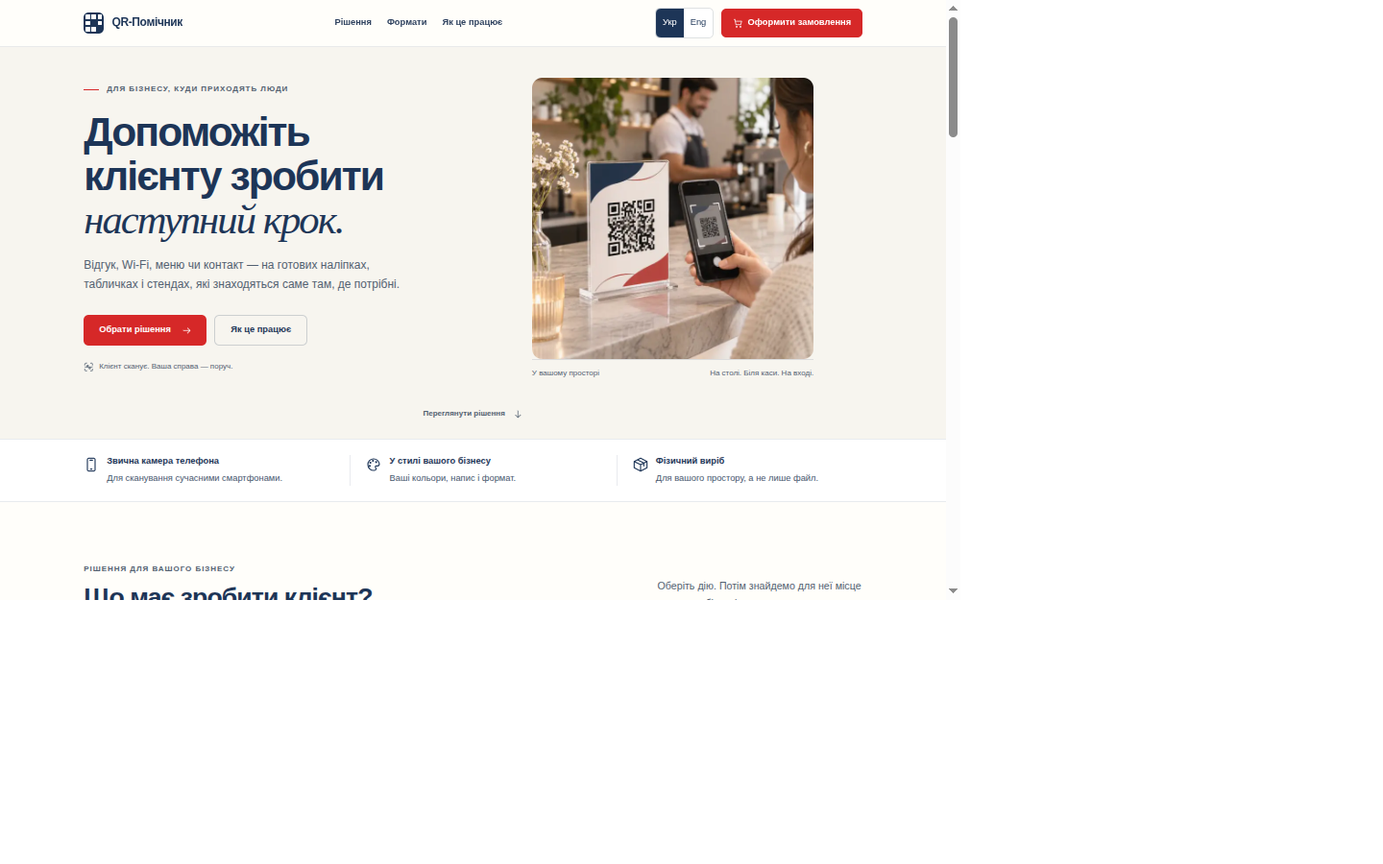
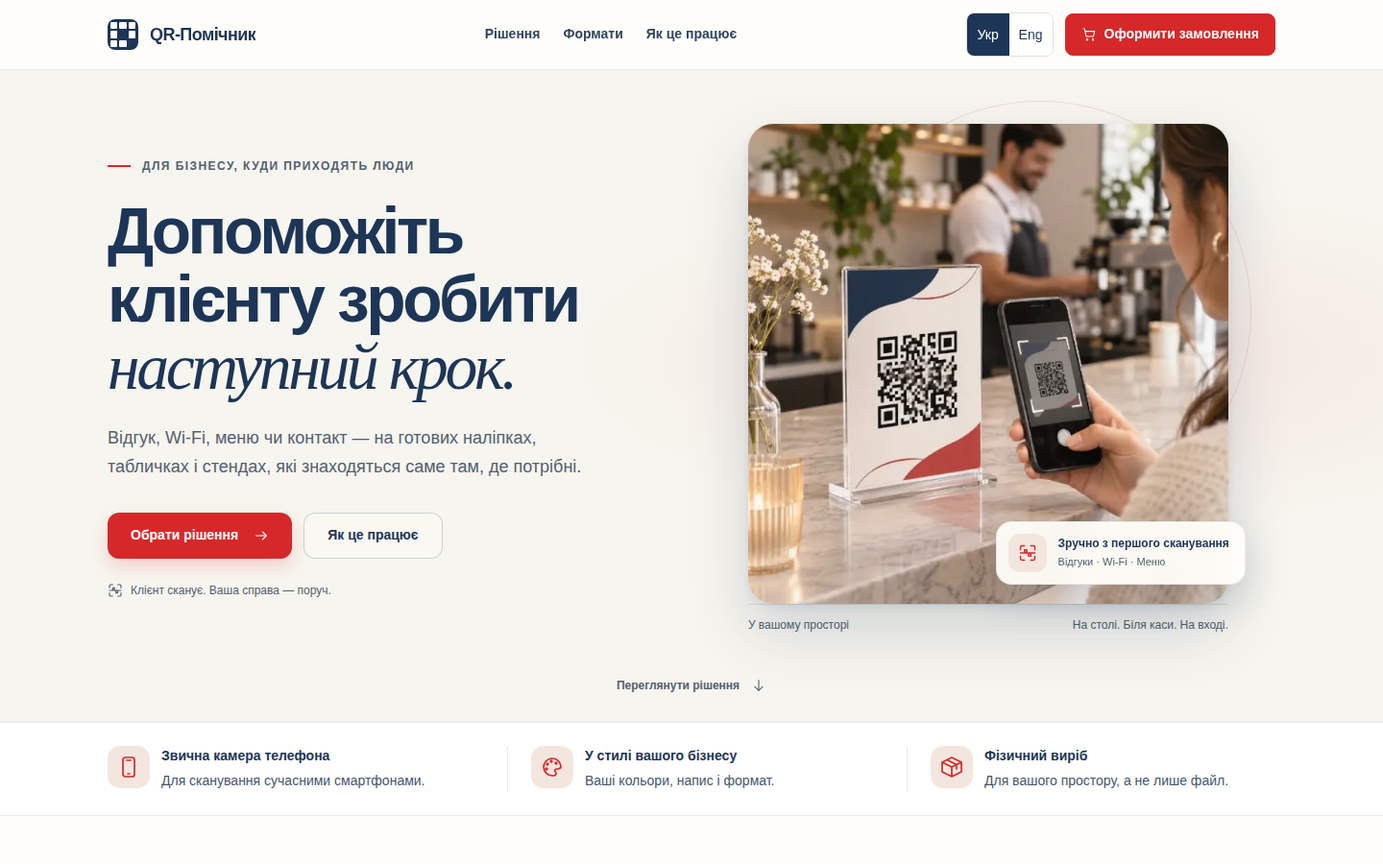
feat: update product visuals and interactions
- Enhanced the product hero section with a new radial gradient background and adjusted layout for better responsiveness.
- Updated button styles for improved hover effects and added box shadows for depth.
- Modified the OrderCart component to reflect a change in terminology from "Customer action" to "Business solution".
- Adjusted the StickerEditor component to align with the new business-focused language.
- Increased the border-radius and added box shadows to images in the HeroEnvironment for a more modern look.
- Updated the SolutionBuilder component to use a new pricing note and adjusted the displayed text for clarity.
- Revised documentation to reflect changes in product descriptions and pricing structure.
- Updated localization files for English and Ukrainian to align with new messaging.
- Added new images for hero integration and updated existing ones for consistency.
- Ensured all changes respect reduced motion preferences for accessibility.

diff --git a/app/globals.css b/app/globals.css
@@ -65,12 +65,12 @@ button {
 .product-storefront { background: #fffefa; }
 .product-container { width: 100%; max-width: 1280px; margin-inline: auto; padding-inline: 32px; }
 .product-section { padding-block: 96px; }
-.product-hero { background: #f7f5ef; overflow: clip; }
-.product-hero-layout { display: grid; align-items: center; grid-template-columns: 1fr 1fr; gap: 32px; padding-block: 48px 32px; }
+.product-hero { position: relative; overflow: clip; background: radial-gradient(ellipse at 78% 44%, rgb(214 40 40 / 8%), transparent 34%), #f7f5ef; }
+.product-hero-layout { display: grid; align-items: center; grid-template-columns: 1fr 1.05fr; gap: 48px; padding-block: 56px 32px; }
 .product-eyebrow, .product-kicker { color: #526070; font-size: 12px; line-height: 1.5; font-weight: 700; letter-spacing: .12em; text-transform: uppercase; }
 .product-eyebrow { display: flex; align-items: center; gap: 12px; }
 .product-eyebrow > span { width: 24px; height: 2px; background: #d62828; flex-shrink: 0; }
-.product-headline { max-width: 610px; margin-top: 24px; color: #1d3557; font-size: 64px; line-height: 1.06; font-weight: 750; letter-spacing: -.045em; text-wrap: balance; }
+.product-headline { max-width: 640px; margin-top: 24px; color: #1d3557; font-size: clamp(56px, 4.7vw, 68px); line-height: 1.04; font-weight: 750; letter-spacing: -.05em; text-wrap: balance; }
 .product-headline em { font-family: Georgia, 'Times New Roman', serif; font-weight: 400; }
 .product-hero-description { max-width: 500px; margin-top: 24px; font-size: 18px; line-height: 1.65; color: #526070; }
 .product-hero-actions { display: flex; flex-wrap: wrap; gap: 12px; margin-top: 32px; }
@@ -78,23 +78,30 @@ button {
 .product-section-heading { margin-top: 12px; color: #1d3557; font-size: 40px; font-weight: 650; line-height: 1.15; letter-spacing: -.035em; text-wrap: balance; }
 .product-section-intro { display: flex; align-items: flex-end; justify-content: space-between; gap: 32px; }
 .product-section-description { max-width: 320px; color: #526070; font-size: 16px; line-height: 1.65; }
-.product-button, .product-button-secondary { display: inline-flex; min-height: 48px; align-items: center; justify-content: center; gap: 16px; padding: 12px 24px; font-size: 14px; line-height: 1.5; font-weight: 650; border-radius: 8px; transition: background-color .2s; }
-.product-button { background: #d62828; color: #fff; }
-.product-button:hover { background: #b91f1f; }
-.product-button-secondary { color: #1d3557; border: 1px solid #1d355733; background: transparent; }
+.product-button, .product-button-secondary { display: inline-flex; min-height: 48px; align-items: center; justify-content: center; gap: 16px; padding: 12px 24px; font-size: 14px; line-height: 1.5; font-weight: 650; border-radius: 12px; transition: background-color .2s, box-shadow .2s, transform .2s; }
+.product-button { background: #d62828; color: #fff; box-shadow: 0 8px 18px rgb(214 40 40 / 18%); }
+.product-button:hover { transform: translateY(-1px); background: #b91f1f; box-shadow: 0 10px 22px rgb(214 40 40 / 22%); }
+.product-button-secondary { color: #1d3557; border: 1px solid #1d355733; background: rgb(255 255 255 / 28%); }
 .product-button-secondary:hover { background: #fffefa; }
 .hero-products-art { display: block; width: 100%; height: auto; }
-.product-hero-scene { position: relative; max-width: 440px; width: 100%; margin-inline: auto; }
+.product-hero-scene { position: relative; z-index: 0; max-width: 500px; width: 100%; margin-inline: auto; }
+.product-hero-scene::before { position: absolute; z-index: -1; top: -24px; right: -24px; width: 88%; aspect-ratio: 1; border: 1px solid rgb(214 40 40 / 13%); border-radius: 50%; background: radial-gradient(circle, rgb(214 40 40 / 9%), rgb(214 40 40 / 0%) 68%); content: ""; }
+.product-hero-photo-badge { position: absolute; right: -18px; bottom: 20px; display: flex; max-width: calc(100% - 24px); align-items: center; gap: 12px; padding: 12px 16px 12px 12px; border: 1px solid rgb(29 53 87 / 8%); border-radius: 16px; background: rgb(255 254 250 / 94%); box-shadow: 0 16px 38px rgb(29 53 87 / 16%); color: #1d3557; backdrop-filter: blur(12px); }
+.product-hero-photo-icon { display: grid; width: 40px; height: 40px; flex: 0 0 40px; place-items: center; border-radius: 12px; background: #f3e6df; color: #d62828; }
+.product-hero-photo-copy { display: grid; gap: 3px; min-width: 0; }
+.product-hero-photo-copy strong { font-size: 12px; line-height: 1.3; font-weight: 750; }
+.product-hero-photo-copy > span { color: #526070; font-size: 11px; line-height: 1.35; }
 .product-scene-caption { display: flex; flex-wrap: wrap; justify-content: space-between; gap: 8px; border-top: 1px solid #1d35571f; padding-top: 12px; font-size: 12px; line-height: 1.5; color: #526070; }
 .product-hero-scroll { display: flex; justify-content: center; padding-bottom: 16px; }
 .product-scroll-cue { display: inline-flex; min-height: 44px; align-items: center; gap: 12px; padding-inline: 12px; color: #526070; font-size: 12px; line-height: 1.5; font-weight: 600; }
 .product-scroll-cue:hover { color: #1d3557; }
 .product-trust-strip { display: grid; grid-template-columns: repeat(3,minmax(0,1fr)); gap: 32px; padding-block: 24px; }
 .product-trust-item { display: flex; align-items: flex-start; gap: 12px; }
-.product-trust-item > svg { margin-top: 4px; }
+.product-trust-item > svg { box-sizing: content-box; margin-top: 0; padding: 10px; border-radius: 13px; background: #f3e6df; color: #d62828; }
 .product-trust-item + .product-trust-item { border-left: 1px solid #1d35571a; padding-left: 24px; }
 .product-flagship-grid { display: grid; grid-template-columns: repeat(3,minmax(0,1fr)); gap: 16px; margin-top: 32px; }
-.product-flagship { display: flex; min-width: 0; flex-direction: column; padding: 32px; border-radius: 12px; transition: background-color .2s; }
+.product-flagship { display: flex; min-width: 0; flex-direction: column; padding: 32px; border: 1px solid rgb(29 53 87 / 4%); border-radius: 22px; box-shadow: 0 8px 24px rgb(29 53 87 / 5%); transition: transform .2s, box-shadow .2s; }
+.product-flagship:hover { transform: translateY(-4px); box-shadow: 0 18px 36px rgb(29 53 87 / 12%); }
 .product-flagship-dark { background: #1d3557; color: #fffdf7; }
 .product-flagship-cream { background: #eee8da; color: #1d3557; }
 .product-flagship-red { background: #f3e6df; color: #1d3557; }
@@ -110,23 +117,24 @@ button {
 .product-format-section { background: #f0eee7; }
 .product-format-description { max-width: 576px; margin-top: 16px; color: #526070; font-size: 16px; line-height: 1.65; }
 .product-format-grid { display: grid; grid-template-columns: repeat(4,minmax(0,1fr)); gap: 32px 24px; margin-top: 32px; }
-.product-material-study { display: flex; align-items: center; justify-content: center; min-width: 0; background: #e7e2d7; aspect-ratio: 1.2; border-radius: 12px; }
+.product-material-study { display: flex; align-items: center; justify-content: center; min-width: 0; overflow: hidden; background: radial-gradient(ellipse at 50% 46%, #f6f2e9, #e7e2d7 72%); aspect-ratio: 1.2; border: 1px solid rgb(29 53 87 / 5%); border-radius: 18px; }
 .product-format-title { display: flex; flex-wrap: wrap; align-items: center; gap: 8px; margin-top: 16px; }
 .product-format-heading { color: #1d3557; font-size: 18px; line-height: 1.35; font-weight: 650; overflow-wrap: anywhere; }
 .product-format-invitation { display: flex; min-width: 0; flex-direction: column; justify-content: center; border-top: 1px solid #1d355726; padding-block: 24px; }
 .product-process-grid { display: grid; grid-template-columns: .8fr 1.2fr; gap: 64px; }
-.product-step-number { display: inline-flex; width: 28px; height: 28px; flex: 0 0 28px; align-items: center; justify-content: center; border: 1px solid #1d355726; border-radius: 50%; color: #1d3557; font-size: 12px; font-weight: 600; line-height: 1; }
+.product-step-number { display: inline-flex; width: 36px; height: 36px; flex: 0 0 36px; align-items: center; justify-content: center; border: 1px solid rgb(214 40 40 / 12%); border-radius: 50%; background: #f3e6df; color: #d62828; font-size: 13px; font-weight: 700; line-height: 1; }
 .product-industries { border-block: 1px solid #1d35571a; padding-block: 64px; background: #f7f5ef; }
 .product-industry-intro { max-width: 640px; margin-inline: auto; text-align: center; }
 .product-industry-intro .product-section-heading { margin-top: 0; }
 .product-industry-intro > p { margin-top: 16px; color: #526070; font-size: 16px; line-height: 1.65; }
-.product-industry-grid { display: grid; grid-template-columns: repeat(3,minmax(0,1fr)); gap: 32px 48px; max-width: 1056px; margin: 48px auto 0; }
-.product-industry { display: grid; grid-template-columns: 24px minmax(0,1fr); align-content: start; align-items: start; gap: 8px 16px; min-width: 0; color: #1d3557; }
-.product-industry > svg { margin-top: 2px; }
+.product-industry-grid { display: grid; grid-template-columns: repeat(3,minmax(0,1fr)); gap: 16px; max-width: 1056px; margin: 40px auto 0; }
+.product-industry { display: grid; grid-template-columns: 44px minmax(0,1fr); align-content: start; align-items: start; gap: 8px 14px; min-width: 0; padding: 20px; border: 1px solid rgb(29 53 87 / 6%); border-radius: 16px; background: rgb(255 255 255 / 78%); color: #1d3557; }
+.product-industry > svg { box-sizing: content-box; padding: 10px; border-radius: 12px; background: #fff; color: #d62828; }
 .product-industry h3 { font-size: 18px; line-height: 1.4; font-weight: 650; }
 .product-industry p { grid-column: 2; font-size: 14px; line-height: 1.6; color: #526070; }
 .product-closing-section { padding-block: 48px 64px; }
-.product-final-cta { display: flex; align-items: center; justify-content: space-between; gap: 32px; padding: 48px; border-radius: 16px; background: #1d3557; color: #fffdf7; }
+.product-final-cta { position: relative; display: flex; align-items: center; justify-content: space-between; gap: 32px; overflow: hidden; padding: 48px; border: 1px solid rgb(255 255 255 / 8%); border-radius: 24px; background: radial-gradient(ellipse at 92% 10%, rgb(214 40 40 / 36%), transparent 32%), linear-gradient(115deg, #1d3557, #284b70); color: #fffdf7; box-shadow: 0 20px 48px rgb(29 53 87 / 14%); }
+.product-final-cta > * { position: relative; z-index: 1; }
 .product-cta-kicker { font-size: 12px; line-height: 1.5; font-weight: 600; letter-spacing: .1em; text-transform: uppercase; color: #d7dce3; }
 .product-final-cta h2 { max-width: 640px; margin-top: 16px; font-family: Georgia, 'Times New Roman', serif; font-size: 36px; line-height: 1.2; text-wrap: balance; }
 .product-choice { display: flex; min-width: 0; width: 100%; flex-direction: column; border: 1px solid #1d355724; border-radius: 12px; padding: 24px; text-align: left; color: #1d3557; background: #fff; transition: border-color .2s, background .2s; }
@@ -177,6 +185,7 @@ button {
   .product-hero-actions { flex-direction: column; margin-top: 24px; }
   .product-hero-support { margin-top: 16px; }
   .product-hero-scene { max-width: 440px; }
+  .product-hero-photo-badge { right: 8px; bottom: 12px; }
   .product-section-heading { font-size: 30px; }
   .product-trust-strip { grid-template-columns: 1fr; gap: 16px; }
   .product-trust-item { flex-direction: row; gap: 12px; }
@@ -198,7 +207,11 @@ button {
   .product-hero-support { margin-top: 16px; }
   .product-scene-caption { font-size: 12px; }
 }
-@media (prefers-reduced-motion: reduce) { html { scroll-behavior: auto; } }
+@media (prefers-reduced-motion: reduce) {
+  html { scroll-behavior: auto; }
+  .product-button, .product-button-secondary, .product-flagship { transition: none; }
+  .product-flagship:hover { transform: none; }
+}
 .product-storefront :is(a, button, input, select, textarea):focus-visible,
 .product-editor :is(a, button, input, select, textarea):focus-visible,
 .product-checkout :is(a, button, input, select, textarea):focus-visible,

diff --git a/app/[locale]/page.tsx b/app/[locale]/page.tsx
@@ -26,13 +26,13 @@ export default async function HomePage({ params }: { params: Promise<{ locale: s
         <div className="product-container product-hero-layout">
           <div className="relative z-10 min-w-0">
             <p className="product-eyebrow"><span />{ua ? 'Для бізнесу, куди приходять люди' : 'For businesses people walk into'}</p>
-            <h1 className="product-headline">{ua ? <>Допоможіть клієнту зробити <em>наступний крок.</em></> : <>Make the next step <em>easy for your customers.</em></>}</h1>
-            <p className="product-hero-description">{ua ? 'Відгук, Wi-Fi, меню чи контакт — на готових наліпках, табличках і стендах, які знаходяться саме там, де потрібні.' : 'Reviews, Wi-Fi, menus and contacts. Thoughtful stickers, signs and table stands that put the right action in the right place.'}</p>
+            <h1 className="product-headline">{ua ? <>QR-рішення, що спрощують <em>роботу бізнесу.</em></> : <>QR solutions that make <em>everyday business easier.</em></>}</h1>
+            <p className="product-hero-description">{ua ? 'Wi-Fi, меню, відгуки чи контакти — готові QR-вироби для щоденних потреб вашого бізнесу.' : 'Wi-Fi, menus, reviews and contacts — ready-to-use QR products for everyday business needs.'}</p>
             <div className="product-hero-actions">
-              <a href="#solutions" className="product-button">{ua ? 'Обрати рішення' : 'Find your solution'}<Icon name="arrow" className="h-4 w-4" /></a>
+              <a href="#solutions" className="product-button">{ua ? 'Обрати рішення' : 'Choose a solution'}<Icon name="arrow" className="h-4 w-4" /></a>
               <a href="#how-it-works" className="product-button-secondary">{ua ? 'Як це працює' : 'How it works'}</a>
             </div>
-            <p className="product-hero-support"><Icon name="scan" className="h-4 w-4" />{ua ? 'Клієнт сканує. Ваша справа — поруч.' : 'A quick scan. A useful connection.'}</p>
+            <p className="product-hero-support"><Icon name="scan" className="h-4 w-4" />{ua ? 'Оберіть рішення, додайте свої дані — готовий QR на виробі.' : 'Choose a solution, add your details — your QR, ready on a product.'}</p>
           </div>
           <div className="product-hero-scene min-w-0">
             <HeroEnvironment
@@ -40,12 +40,21 @@ export default async function HomePage({ params }: { params: Promise<{ locale: s
               image={{
                 src: '/images/hero/cafe-review-stand.webp',
                 alt: ua
-                  ? 'Клієнт сканує QR-стенд для відгуків у кав’ярні'
-                  : 'A customer scans a café review QR stand',
+                  ? 'Згенерована візуалізація QR-стенду для відгуків у кав’ярні'
+                  : 'AI-generated visualization of a café review QR stand',
                 objectPosition: { desktop: '50% 50%', mobile: '46% 51%' },
               }}
+              overlay={
+                <div className="product-hero-photo-badge" aria-hidden="true">
+                  <span className="product-hero-photo-icon"><Icon name="scan" className="h-5 w-5" /></span>
+                  <span className="product-hero-photo-copy">
+                    <strong>{ua ? 'Зручно з першого сканування' : 'Easy from the first scan'}</strong>
+                    <span>{ua ? 'Відгуки · Wi-Fi · Меню' : 'Reviews · Wi-Fi · Menus'}</span>
+                  </span>
+                </div>
+              }
             />
-            <div className="product-scene-caption"><span>{ua ? 'У вашому просторі' : 'In your space'}</span><span>{ua ? 'На столі. Біля каси. На вході.' : 'Tables. Counters. Doorways.'}</span></div>
+            <div className="product-scene-caption"><span>{ua ? 'Згенерована візуалізація' : 'AI-generated visual'}</span><span>{ua ? 'Приклад QR-виробу в інтер’єрі' : 'Example QR product in a café'}</span></div>
           </div>
         </div>
         <div className="product-container product-hero-scroll">
@@ -66,8 +75,8 @@ export default async function HomePage({ params }: { params: Promise<{ locale: s
 
       <section id="solutions" className="product-container product-section">
         <div className="product-section-intro">
-          <div className="max-w-xl"><p className="product-kicker">{ua ? 'Рішення для вашого бізнесу' : 'Solutions for your business'}</p><h2 className="product-section-heading">{ua ? 'Що має зробити клієнт?' : 'What should your customer do?'}</h2></div>
-          <p className="product-section-description">{ua ? 'Оберіть дію. Потім знайдемо для неї місце у вашому бізнесі.' : 'Choose an action. Then give it a place in your business.'}</p>
+          <div className="max-w-xl"><p className="product-kicker">{ua ? 'Рішення для вашого бізнесу' : 'Solutions for your business'}</p><h2 className="product-section-heading">{ua ? 'Що потрібно вашому бізнесу?' : 'What does your business need?'}</h2></div>
+          <p className="product-section-description">{ua ? 'Wi-Fi, меню, відгуки чи контакти — оберіть, що хочете спростити.' : 'Wi-Fi, menus, reviews or contacts — choose what you want to make easier.'}</p>
         </div>
         <div className="product-flagship-grid">
           {goals.slice(0, 3).map((solution, index) => (
@@ -112,9 +121,9 @@ export default async function HomePage({ params }: { params: Promise<{ locale: s
           <div><p className="product-kicker">{ua ? 'Як це працює' : 'How it works'}</p><h2 className="product-section-heading">{ua ? 'Три кроки до готового виробу.' : 'Three steps to your finished product.'}</h2><Link href="/how-it-works" className="mt-6 inline-flex min-h-11 items-center gap-2 text-sm font-bold text-navy">{ua ? 'Детальніше про замовлення' : 'More about ordering'}<Icon name="arrow" className="h-4 w-4" /></Link></div>
           <ol className="divide-y divide-navy/10 border-t border-navy/10">
             {[
-              [ua ? 'Оберіть дію' : 'Choose an action', ua ? 'Відгук, підключення до Wi-Fi чи перехід до вашого меню.' : 'A review, a Wi-Fi connection or a visit to your menu.'],
-              [ua ? 'Налаштуйте дизайн і формат' : 'Customize the design and format', ua ? 'Додайте свої дані, оберіть носій, кольори й кількість.' : 'Add your content, choose the format, colors and quantity.'],
-              [ua ? 'Оформіть замовлення' : 'Place your order', ua ? 'Узгодимо деталі замовлення. Після узгодження ви отримаєте готовий виріб для свого простору.' : 'We’ll confirm the order details with you. After confirmation, you’ll receive a finished product for your space.'],
+              [ua ? 'Оберіть рішення для бізнесу' : 'Choose a business solution', ua ? 'Wi-Fi, меню, відгуки, контакти чи інше посилання.' : 'Wi-Fi, menus, reviews, contacts or another link.'],
+              [ua ? 'Додайте дані й оберіть вигляд' : 'Add your details and choose a design', ua ? 'Перегляньте макет, оберіть готове оформлення, формат і кількість.' : 'Preview your design, choose a format and quantity.'],
+              [ua ? 'Отримайте готовий виріб' : 'Get your finished product', ua ? 'Оформіть замовлення — і отримайте надрукований QR-виріб для свого бізнесу.' : 'Place your order and receive a printed QR product for your business.'],
             ].map(([title, description], index) => <li key={title} className="flex gap-4 py-6"><span aria-hidden="true" className="product-step-number">{index + 1}</span><div><h3 className="text-lg font-bold text-navy">{title}</h3><p className="mt-2 text-sm leading-6 text-slate-600">{description}</p></div></li>)}
           </ol>
         </div>
@@ -137,7 +146,7 @@ export default async function HomePage({ params }: { params: Promise<{ locale: s
           </div>
         </div>
       </section>
-      <section className="product-container product-closing-section"><div className="product-final-cta"><div className="max-w-2xl"><p className="product-cta-kicker">{ua ? 'Маленька деталь. Щоденна користь.' : 'A small detail. An everyday connection.'}</p><h2>{ua ? 'Дайте клієнту простий привід взаємодіяти.' : 'Give your customers an easy next step.'}</h2></div><a href="#solutions" className="product-button shrink-0">{ua ? 'Обрати рішення' : 'Find your solution'}<Icon name="arrow" className="h-4 w-4" /></a></div></section>
+      <section className="product-container product-closing-section"><div className="product-final-cta"><div className="max-w-2xl"><p className="product-cta-kicker">{ua ? 'Менше рутини. Більше зручності.' : 'Less back-and-forth. More convenience.'}</p><h2>{ua ? 'Спрощуйте щоденні справи свого бізнесу.' : 'Make everyday business easier.'}</h2></div><a href="#solutions" className="product-button shrink-0">{ua ? 'Обрати рішення' : 'Choose a solution'}<Icon name="arrow" className="h-4 w-4" /></a></div></section>
     </div>
   );
 }

diff --git a/components/OrderCart.tsx b/components/OrderCart.tsx
@@ -172,7 +172,7 @@ export function OrderCart() {
             return <li key={i.id} className="rounded-2xl border border-slate-200 p-3 sm:p-4">
               <div className="grid grid-cols-[72px_minmax(0,1fr)] items-start gap-4">
                 <div className="flex items-center justify-center rounded-xl bg-[#f0ede8] p-2"><StickerDesign type={i.payloadType} value={i.value} shape={i.shape} colors={i.colors} label={i.label} subtitle={i.subtitle} icon={i.icon} visualIcon={goal?.icon ?? 'scan'} width={72} /></div>
-                <div className="min-w-0"><p className="text-[10px] font-semibold uppercase tracking-wider text-slate-500">{ua ? 'Дія клієнта' : 'Customer action'}</p><h3 className="mt-1 break-words text-base font-bold text-navy">{goal ? localized(goal.title, locale) : ua ? 'Ваш виріб' : 'Your product'}</h3><p className="mt-2 break-words text-xs leading-5 text-slate-500">{ua ? 'Напис' : 'Message'}: {i.label}</p></div>
+                <div className="min-w-0"><p className="text-[10px] font-semibold uppercase tracking-wider text-slate-500">{ua ? 'Рішення для бізнесу' : 'Business solution'}</p><h3 className="mt-1 break-words text-base font-bold text-navy">{goal ? localized(goal.title, locale) : ua ? 'Ваш виріб' : 'Your product'}</h3><p className="mt-2 break-words text-xs leading-5 text-slate-500">{ua ? 'Напис' : 'Message'}: {i.label}</p></div>
               </div>
               <dl className="mt-4 grid grid-cols-2 gap-x-3 gap-y-3 border-t border-slate-100 pt-3 text-xs leading-5">
                 <div><dt className="text-slate-500">{ua ? 'Формат' : 'Format'}</dt><dd className="font-semibold text-navy">{physical ? localized(physical.title, locale) : ua ? 'Наліпка' : 'Sticker'}{physical && !physical.available && <span className="block font-normal text-accent">{ua ? 'Поки недоступно' : 'Not available yet'}</span>}</dd></div>
@@ -189,7 +189,7 @@ export function OrderCart() {
 
       <form onSubmit={handleSubmit(onSubmit)} className="rounded-3xl border border-slate-200 bg-white p-4 shadow-xl shadow-slate-200/40 sm:p-6" noValidate>
         <h2 className="section-title">{t('sectionCustomer')}</h2>
-        <p className="mt-3 rounded-lg bg-slate-50 p-3 text-xs leading-5 text-slate-600">{ua ? 'Демонстраційна ціна замовлення — 1 грн. Деталі виготовлення та оплати узгодимо з вами.' : 'Demo order price: UAH 1. We will confirm production and payment details with you.'}</p>
+        <p className="mt-3 rounded-lg bg-slate-50 p-3 text-xs leading-5 text-slate-600">{tc('pricingNote')}</p>
         <p className="mt-2 text-sm leading-6 text-slate-500">{t('intro')}</p>
 
         <div className="mt-5 grid gap-4">

diff --git a/components/product/SolutionBuilder.tsx b/components/product/SolutionBuilder.tsx
@@ -5,9 +5,11 @@ import { Link } from '@/i18n/navigation';
 import { Icon } from './Icon';
 import { ProductMockup } from './ProductMockup';
 import { PHYSICAL_PRODUCTS, localized, type Solution } from '@/lib/products/solutions';
+import { useTranslations } from 'next-intl';
 
 export function SolutionBuilder({ solution, locale }: { solution: Solution; locale: string }) {
   const ua = locale === 'ua';
+  const tc = useTranslations('common');
   const [variant, setVariant] = useState(solution.variants[0]);
   const [product, setProduct] = useState(solution.suggestedFormat);
   const selected = PHYSICAL_PRODUCTS.find((item) => item.key === product)!;
@@ -32,7 +34,7 @@ export function SolutionBuilder({ solution, locale }: { solution: Solution; loca
           <h2 className="text-xl font-semibold">{localized(solution.title, locale)}</h2><p className="mt-3 text-sm text-white/80">{localized(variant.title, locale)} · {localized(selected.title, locale)}</p>
           <p className="mt-4 text-xs leading-6 text-white/65">{ua ? 'Далі додамо ваші дані, оберемо оформлення, розмір і кількість.' : 'Next, add your content and choose the design, size and quantity.'}</p>
           <Link href={`/stickers/${variant.catalogKey}?goal=${solution.key}&productType=${product}`} className="product-button mt-5 w-full">{ua ? 'Налаштувати виріб' : 'Customize product'}<Icon name="arrow" className="h-4 w-4" /></Link>
-          <p className="mt-4 text-xs leading-5 text-white/60">{ua ? 'Демонстраційна ціна — 1 грн за замовлення. Деталі виготовлення узгоджуємо перед підтвердженням.' : 'Demo price: UAH 1 per order. Production details are agreed before confirmation.'}</p>
+          <p className="mt-4 text-xs leading-5 text-white/60">{tc('pricingNote')}</p>
         </aside>
       </div>
     </div>

diff --git a/components/StickerEditor.tsx b/components/StickerEditor.tsx
@@ -131,7 +131,7 @@ function ConfiguredStickerEditor({ stickerKey, def, initialGoal, initialProductT
           </div>
         </aside>
         <div className={styles.sections}>
-          <EditorSection number="01" title={ua ? 'Дія клієнта' : 'Customer action'}>
+          <EditorSection number="01" title={ua ? 'Рішення для бізнесу' : 'Business solution'}>
             <div className={styles.context}>
               <span className={styles.contextIcon}><Icon name={goal?.icon ?? 'scan'} className="h-6 w-6" /></span>
               <div className="min-w-0">

diff --git a/components/product/HeroEnvironment.module.css b/components/product/HeroEnvironment.module.css
@@ -8,7 +8,8 @@
 .image {
   object-fit: cover;
   object-position: var(--hero-position-desktop, 50% 50%);
-  border-radius: 16px;
+  border-radius: 26px;
+  box-shadow: 0 28px 64px rgb(29 53 87 / 18%), 0 3px 8px rgb(29 53 87 / 8%);
 }
 
 .overlay {

diff --git a/docs/qa/homepage-narrative/README.md b/docs/qa/homepage-narrative/README.md
@@ -1,6 +1,6 @@
 # Homepage narrative and hero preparation
 
-Branch: `product-redesign-v2`. Before screenshots: `127f53f`. This pass clarifies the existing storefront story and prepares a replaceable hero visual. It does not generate the future environment images or change the product/order architecture.
+Branch: `product-redesign-v2`. Before screenshots: `127f53f`. This pass clarifies the existing storefront story, integrates the selected café review-stand photo, and refines the visual hierarchy without changing the product/order architecture.
 
 ## 1. Misleading numbers removed
 
@@ -31,7 +31,7 @@ The before and after use the same browser, routes and sizes, with an empty cart.
 
 Checked 1366×768, 1440×900, 1600×900 and 1920×1080 in both languages. The 1280 px main container is retained; the centered industry grid is capped at 1056 px. Hero copy, visual, solution cards, CTA and footer remain aligned to their existing container.
 
-At 1440×900 the hero ends at approximately **836 px**, the cue ends at **820 px**, and the trust strip begins within the viewport. There is no artificial `100vh` height. On short landscape the existing compact hero/header behavior remains in place and the document scrolls normally.
+The visual review pass keeps the hero editorial and asymmetrical: the copy and primary action stay on the left, while the 500 px photo anchors the right. At 1440×900 the hero ends at approximately **753 px**; the trust strip and start of solutions remain visible. There is no artificial `100vh` height. On short landscape the compact two-column hero remains scrollable.
 
 ## 5. Industry layout
 
@@ -52,12 +52,9 @@ A centered normal section heading and supporting sentence introduce the six indu
 />
 ```
 
-The square frame preserves layout geometry. `next/image` supplies responsive image loading; CSS controls `object-fit: cover` and separate desktop/mobile crop positions. The photo stays within a 440 px desktop scene so it does not outweigh the left-side copy. An optional `overlay` accepts localized HTML/SVG details. Essential copy stays in HTML/SVG rather than embedded in raster artwork.
+The square frame preserves layout geometry. `next/image` supplies responsive image loading; CSS controls `object-fit: cover` and separate desktop/mobile crop positions. The photo stays within a 500 px desktop scene so it does not outweigh the left-side copy. An optional `overlay` accepts localized HTML/SVG details; the scan hint is rendered as localized HTML with an SVG icon. Essential copy stays in HTML/SVG rather than embedded in raster artwork.
 
 The selected photograph was supplied by the user; no alternative environments were generated or substituted.
-
-
-Use matching product scale/framing across candidates, neutral artwork without readable localized wording, and enough crop room for mobile. Select the strongest candidate only after comparing desktop and mobile compositions. These variants have **not been generated in this pass**.
 
 ## 7. QA results
 
@@ -67,8 +64,12 @@ Passed `npm run typecheck`, `npm test` (three files / 34 checks), `npm run build
 
 UA/EN browser QA covered 11 sizes each: 320×740, 390×844, 568×320, 667×375, 768×1024, 844×390, 1024×600, 1366×768, 1440×900, 1600×900 and 1920×1080. Verified no horizontal overflow, exact section order, only three real step numbers, industry breakpoints/centering, desktop cue visibility, native in-page navigation, mobile menu bounds/close behavior, localized returns from the cart and the separate detailed page link.
 
-A server-render probe checked both the SVG fallback and the supplied-image branch, desktop/mobile crop properties and a localized overlay. The final environment photograph and its crops still need visual review when an asset is selected. Browser QA used Chrome viewport emulation, not physical devices.
+A server-render probe checked both the SVG fallback and the supplied-image branch, desktop/mobile crop properties and a localized overlay. The selected photograph and responsive crops were visually reviewed at the requested sizes. Browser QA used Chrome viewport emulation, not physical devices.
 
 [Viewport measurements](viewport-matrix.json) · [Browser log](console-events.json) · [Verification summary](verification-summary.json)
 
 Changed source files: `app/[locale]/page.tsx`, `app/globals.css`, `components/Header.tsx`, `components/product/ProductMockup.tsx`, and new `HeroEnvironment.tsx` / `HeroEnvironment.module.css`. Backend/order/admin logic and database schema are unchanged. The pre-existing staged `package-lock.json` change is excluded. No merge, push or production deployment was performed; protected branches retain their original refs.
+
+## 8. Visual review update
+
+The selected café photo was reviewed in the live homepage and retained. The hero now gives it a stronger but balanced frame, with an HTML/SVG scan hint over secondary foreground; the QR code and phone screen stay clear. Solution and industry cards, format mockups, and the final CTA use more consistent rounded surfaces, depth and hover states. Motion respects reduced-motion preferences. No new raster image or product architecture was needed for this visual pass.

diff --git a/docs/product-roadmap.md b/docs/product-roadmap.md
@@ -8,7 +8,7 @@ Business goal → interaction → physical format → content/design/size/quanti
 
 Eight main goals cover reviews, guest Wi-Fi, menu/price list, contacts, social profiles, location, booking and documents. A secondary online-business solution retains website, OLX and app-link capabilities. Menu, location, booking and documents use the existing URL engine: the customer supplies a published HTTPS link. There is no file hosting, booking system or map API behind these options. All twelve legacy catalog routes remain, including the disabled payment concept.
 
-Physical formats remain the existing production-option values. NFC is visibly unavailable and cannot be selected in the new chooser/editor. Demo price stays UAH 1 per order; materials, dimensions, fulfilment and payment need manager confirmation. Mockups are illustrative, decorative SVG studies, not representations of an approved manufacturing specification.
+Physical formats remain the existing production-option values. NFC is visibly unavailable and cannot be selected in the new chooser/editor. The storefront tells customers that price will be confirmed after format, material and quantity are agreed; the order API still records its internal UAH 1 placeholder. Materials, dimensions, fulfilment and payment need manager confirmation. Mockups are illustrative, decorative SVG studies, not representations of an approved manufacturing specification.
 
 Existing QR payloads, public/admin endpoints, admin authentication, database schema and order persistence remain unchanged. The editor receives validated goal/format context through URL query parameters. Optional `businessGoal` is local cart presentation metadata; the established order API mapper deliberately sends its original fields. Older carts derive their presentation from existing catalog keys. Production artwork still travels as QR value, label, design and physical options. New SVG icon identifiers use the existing icon string field; the admin reader renders both these identifiers and legacy emoji values.
 

diff --git a/docs/product-redesign-v2.md b/docs/product-redesign-v2.md
@@ -37,7 +37,7 @@ Internal plans now live in [product-roadmap.md](product-roadmap.md). The admin d
 
 QR+NFC is Coming later and disabled; no hardware or provisioning is implemented. Dynamic QR's existing admin backend is retained, but customer Smart controls, ownership and anonymous creation are not added. Analytics, accounts, multi-location management, saved templates and reorder automation are roadmap items.
 
-Physical mockups are illustrative; the editor previews the printed artwork, not a manufacturing-accurate render of each carrier. S/M/L have no approved physical dimensions and pricing remains a demo UAH 1 per order. Material, dimensions, delivery and payment require manager confirmation. Online payment is visibly unavailable.
+Physical mockups are illustrative; the editor previews the printed artwork, not a manufacturing-accurate render of each carrier. S/M/L have no approved physical dimensions. The storefront says that price will be confirmed after format, material and quantity are agreed; the order API still records its internal UAH 1 placeholder. Material, dimensions, delivery and payment require manager confirmation. Online payment is visibly unavailable.
 
 QR quality is a computed screen-color contrast ratio with a caution for low contrast/reversed polarity. It is a heuristic, not a print-ready/scan-certification badge. There are no fabricated green checks for quiet zone, physical module size or production approval. See [quality boundaries](product-roadmap.md#product-quality-boundaries).
 

diff --git a/docs/qa/hero-image-integration/README.md b/docs/qa/hero-image-integration/README.md
@@ -1,12 +1,13 @@
 # Hero image integration
 
-The selected café review-stand photo is used by the existing `HeroEnvironment` on the homepage. It contains no added rasterized copy; visible captions and headings remain localized HTML.
+The selected café review-stand photo is used by the existing `HeroEnvironment` on the homepage. Its asymmetrical framing, subtle halo, scan hint and updated card treatments use CSS or localized HTML/SVG; the photo itself contains no added copy.
 
 | Locale | Viewport | Screenshot |
 |---|---:|---|
 | UA | 1440×900 | [Desktop](./ua-desktop-1440x900.png) |
 | UA | 390×844 | [Mobile](./ua-mobile-390x844.png) |
 | UA | 844×390 | [Landscape](./ua-landscape-844x390.png) |
+| UA | 1920×1080 | [Wide desktop](./ua-desktop-1920x1080.png) |
 | EN | 1440×900 | [Desktop](./en-desktop-1440x900.png) |
 
-The stand and phone remain visible at all requested sizes. The desktop scene is capped at 440 px; desktop and mobile use separate `object-position` values.
+The stand and phone remain visible at all reviewed sizes. The desktop scene is capped at 500 px; desktop and mobile use separate `object-position` values. The hint card stays over the secondary foreground rather than the QR code or phone screen.
